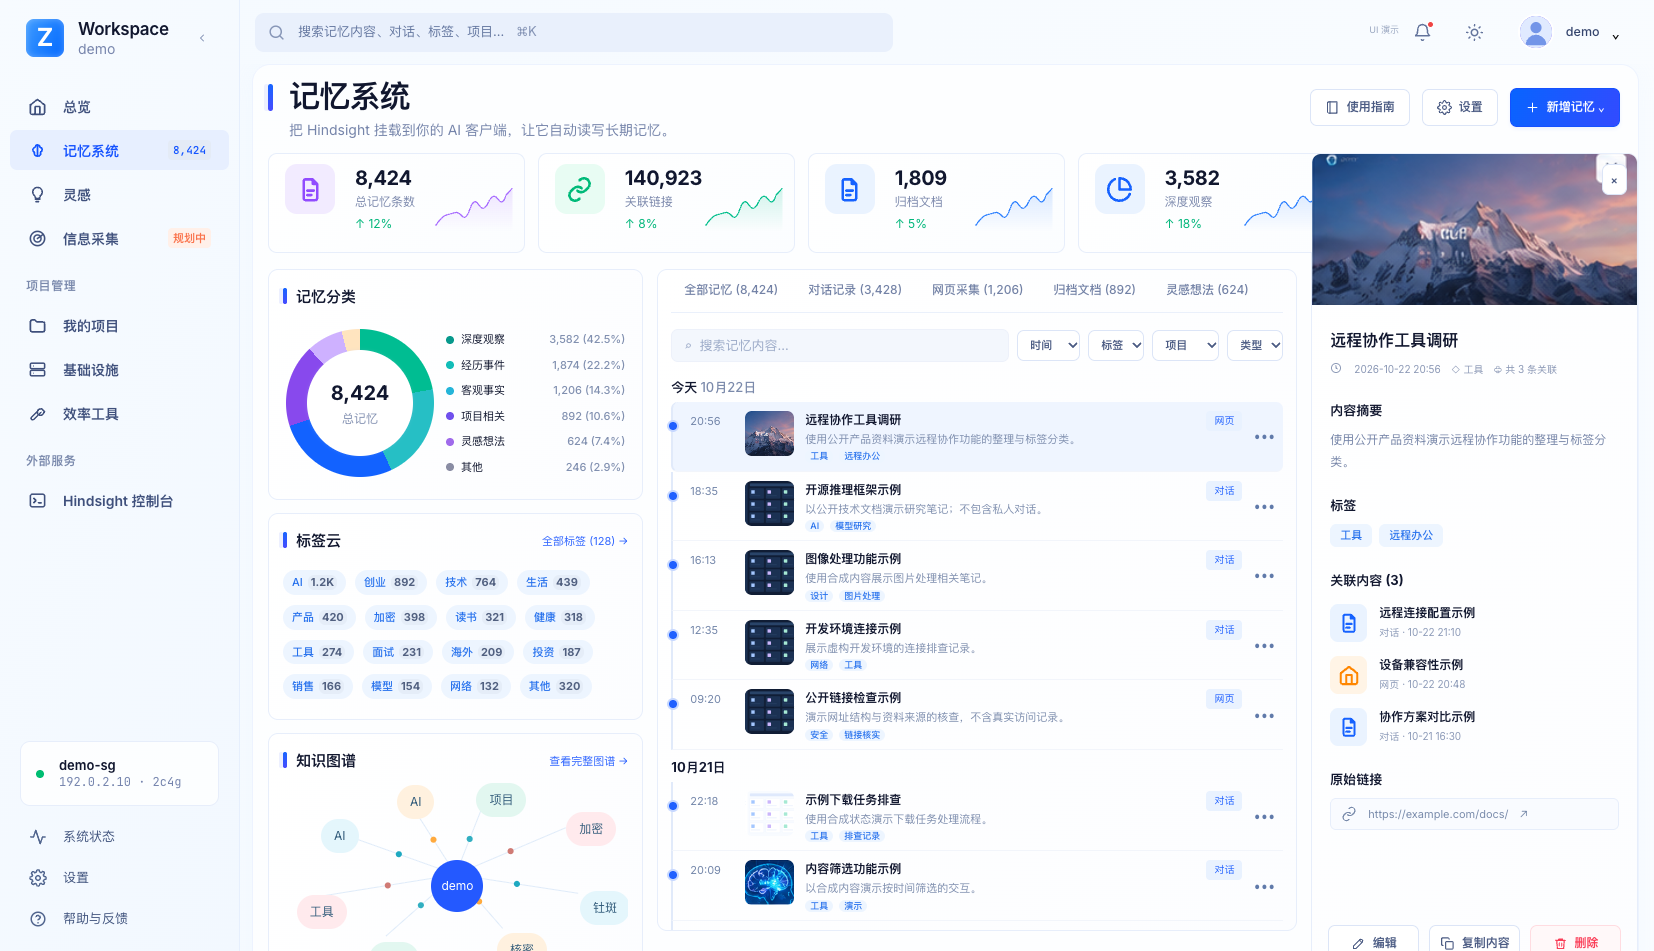
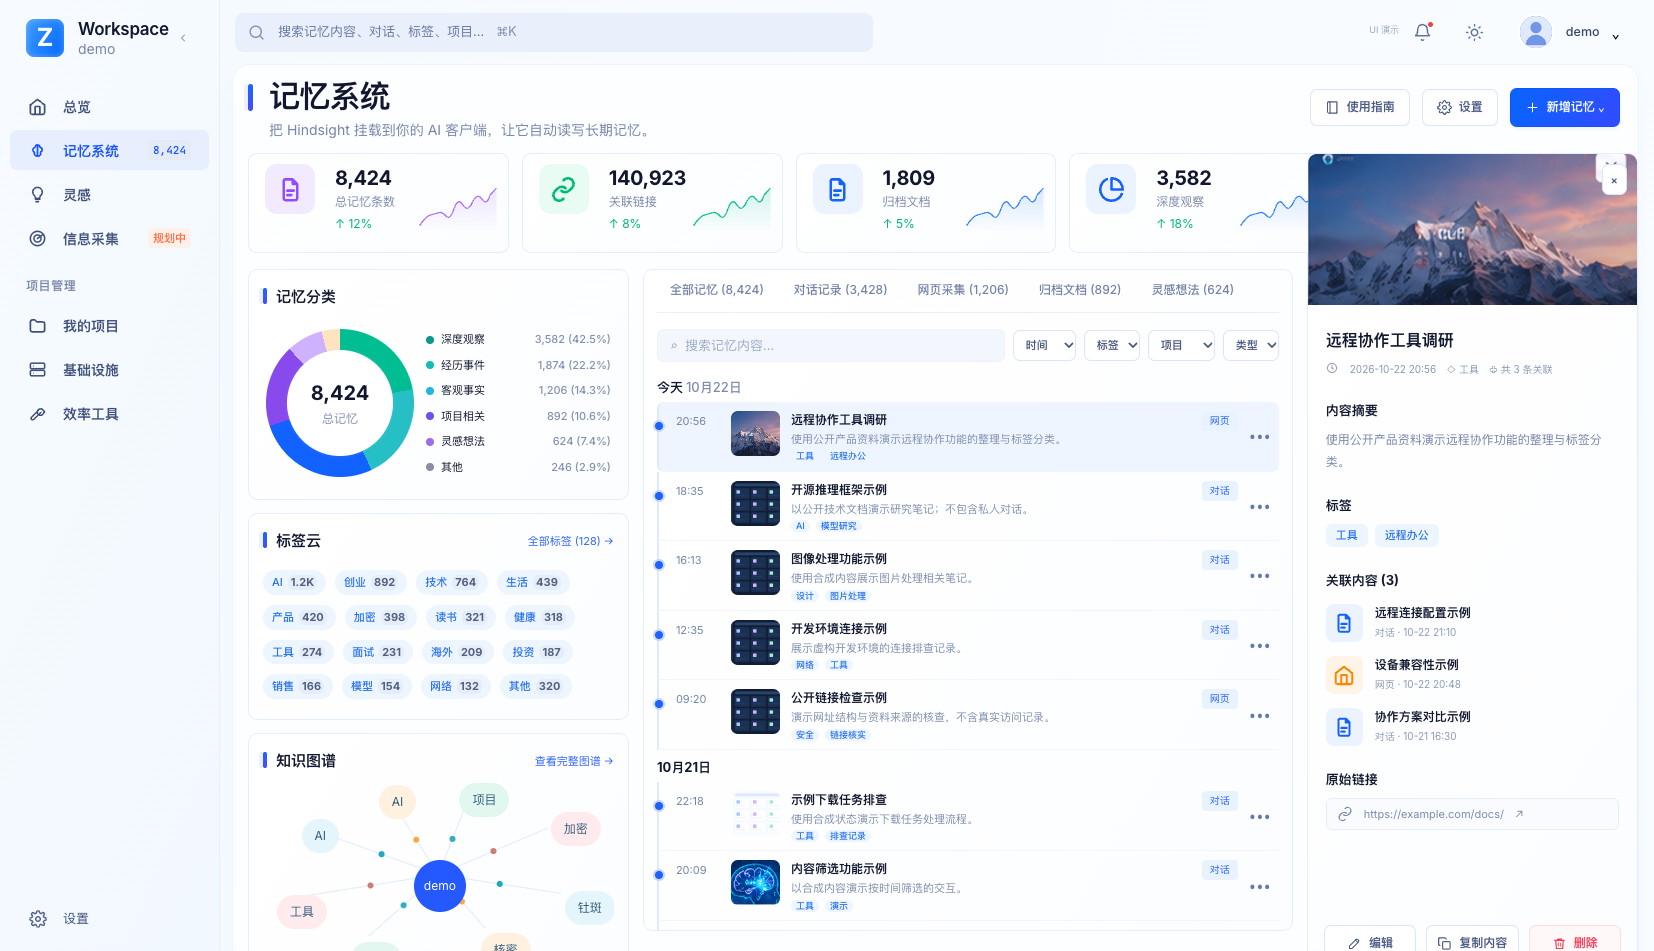
Narrow workspace navigation rail

diff --git a/workbench/portal/assets/reference-readable.css b/workbench/portal/assets/reference-readable.css
@@ -285,3 +285,11 @@ body.is-live .detail-body h4 { font-size:14px; }
 body.is-live #workspacePage svg text { font-size:12px!important; fill:var(--ink-3); }
 @media(max-width:900px) { body.is-live #dataMode { display:none!important; } }
 @media(max-width:760px) { body.is-live .overview-service .gauges { display:grid; } }
+
+/* The owner prefers a compact rail; keep it identical in actual and demo modes. */
+body:has(#workspacePage){--workspace-rail:220px;--sidebar-w:var(--workspace-rail)}
+body:has(#workspacePage) .sidebar,body.is-live:has(#workspacePage) .sidebar{width:var(--workspace-rail)}
+body:has(#workspacePage) .main,body.is-live:has(#workspacePage) .main{margin-left:var(--workspace-rail);width:calc(100% - var(--workspace-rail))}
+@media(max-width:1150px){body:has(#workspacePage){--workspace-rail:190px}}
+@media(max-width:760px){body:has(#workspacePage){--workspace-rail:65px}}
+body.collapsed:has(#workspacePage),body.is-live.collapsed:has(#workspacePage){--workspace-rail:65px}

diff --git a/workbench/portal/assets/reference-ui.css b/workbench/portal/assets/reference-ui.css
@@ -90,3 +90,11 @@ body:has(#workspacePage[data-view=overview]) .topbar{flex-basis:69px;flex-shrink
 .palette-input{flex:none;border-bottom:1px solid var(--line)}
 #paletteList{min-height:0;overflow-y:auto;overscroll-behavior:contain}
 #paletteList .pal-item{flex-shrink:0;overflow-wrap:anywhere}
+
+/* Keep one slightly narrower navigation rail across every page and data mode. */
+body:has(#workspacePage){--workspace-rail:220px;--sidebar-w:var(--workspace-rail)}
+body:has(#workspacePage) .sidebar{width:var(--workspace-rail)}
+body:has(#workspacePage) .main{margin-left:var(--workspace-rail);width:calc(100% - var(--workspace-rail))}
+@media(max-width:1150px){body:has(#workspacePage){--workspace-rail:190px}}
+@media(max-width:760px){body:has(#workspacePage){--workspace-rail:65px}}
+body.collapsed:has(#workspacePage){--workspace-rail:65px}

diff --git a/workbench/portal/index.html b/workbench/portal/index.html
@@ -10,8 +10,8 @@
 <link rel="preconnect" href="https://fonts.gstatic.com" crossorigin>
 <link href="https://fonts.googleapis.com/css2?family=Inter:wght@400;500;600;700&family=JetBrains+Mono:wght@400;500;600&display=swap" rel="stylesheet">
 <link rel="stylesheet" href="/assets/reference-base.css?v=20261023-overview1">
-<link rel="stylesheet" href="/assets/reference-ui.css?v=20261025-search-layout1">
-<link rel="stylesheet" href="/assets/reference-readable.css?v=20261025-search-layout1">
+<link rel="stylesheet" href="/assets/reference-ui.css?v=20261025-sidebar-width1">
+<link rel="stylesheet" href="/assets/reference-readable.css?v=20261025-sidebar-width1">
 </head>
 <body>
 
